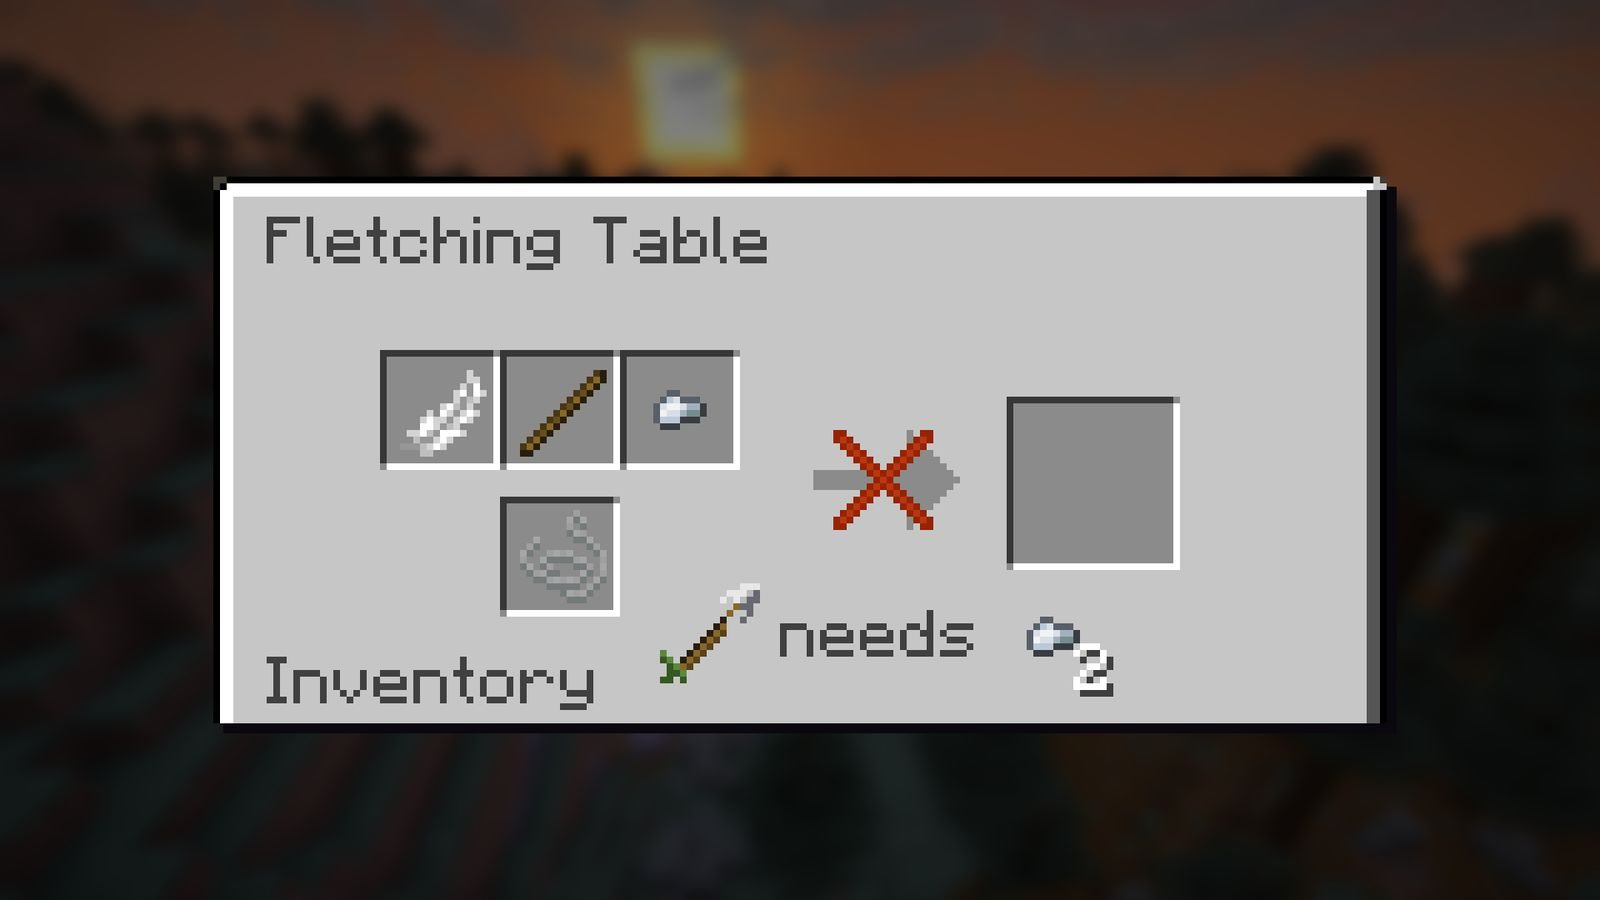
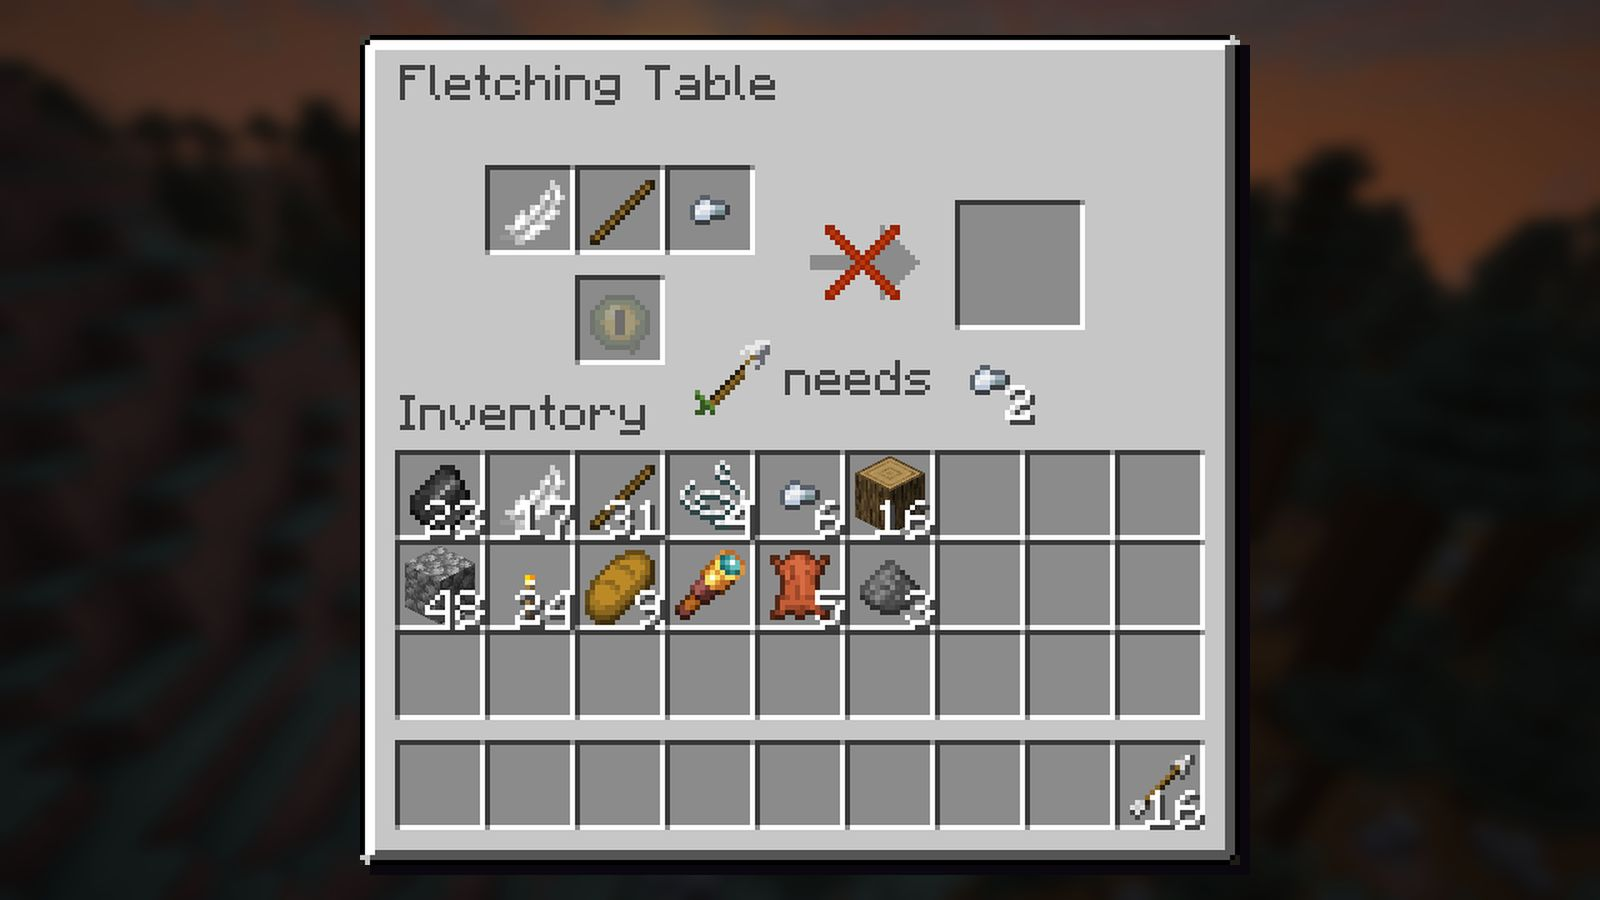
M7: website: retaken shots, full menus, corrected text

diff --git a/site/showcase.html b/site/showcase.html
@@ -23,7 +23,7 @@
 <nav class="nav" aria-label="Main"><a href="index.html">Home</a><a href="guide.html">How it plays</a><a href="arsenal.html">Arsenal</a><a href="bestiary.html">Bestiary</a><a href="showcase.html" aria-current="page">Showcase</a><a href="packs.html">Modpacks and config</a><a href="https://github.com/Panda-s-Workshop/full-draw" rel="noopener">GitHub</a></nav>
 </div></header>
 <main id="main">
-<div class="pagehead"><div class="wrap"><div class="eyebrow">Screenshots</div><h1>Showcase</h1><p>Taken in game, with no shaders or texture packs.</p></div></div><div class="wrap"><div class="filters" role="group" aria-label="Filter"><button class="chip" data-f="all" aria-pressed="true">All</button><button class="chip" data-f="World" aria-pressed="false">World</button><button class="chip" data-f="Creatures" aria-pressed="false">Creatures</button><button class="chip" data-f="Arrows" aria-pressed="false">Arrows</button><button class="chip" data-f="Shooting" aria-pressed="false">Shooting</button><button class="chip" data-f="Fletching" aria-pressed="false">Fletching</button></div><div class="gallery"><a class="shot" href="img/shots/hero.jpg" data-cat="World" data-cap="A Ranger&#x27;s Watchtower in the old pines at sunset"><img src="img/thumbs/hero.jpg" alt="A Ranger&#x27;s Watchtower in the old pines at sunset" loading="lazy" width="640" height="360"><span>A Ranger&#x27;s Watchtower in the old pines at sunset</span></a><a class="shot" href="img/shots/marksman.jpg" data-cat="Creatures" data-cap="The Marksman on its battlements"><img src="img/thumbs/marksman.jpg" alt="The Marksman on its battlements" loading="lazy" width="640" height="360"><span>The Marksman on its battlements</span></a><a class="shot" href="img/shots/tower.jpg" data-cat="World" data-cap="The watchtower over the taiga at dusk"><img src="img/thumbs/tower.jpg" alt="The watchtower over the taiga at dusk" loading="lazy" width="640" height="360"><span>The watchtower over the taiga at dusk</span></a><a class="shot" href="img/shots/rope.jpg" data-cat="Arrows" data-cap="A Rope Arrow&#x27;s rope down the watchtower&#x27;s wall"><img src="img/thumbs/rope.jpg" alt="A Rope Arrow&#x27;s rope down the watchtower&#x27;s wall" loading="lazy" width="640" height="360"><span>A Rope Arrow&#x27;s rope down the watchtower&#x27;s wall</span></a><a class="shot" href="img/shots/harrier.jpg" data-cat="Creatures" data-cap="A Gale Harrier circling high over the windswept heights"><img src="img/thumbs/harrier.jpg" alt="A Gale Harrier circling high over the windswept heights" loading="lazy" width="640" height="360"><span>A Gale Harrier circling high over the windswept heights</span></a><a class="shot" href="img/shots/lurker.jpg" data-cat="Creatures" data-cap="A Bog Lurker&#x27;s eyes in the swamp at nightfall"><img src="img/thumbs/lurker.jpg" alt="A Bog Lurker&#x27;s eyes in the swamp at nightfall" loading="lazy" width="640" height="360"><span>A Bog Lurker&#x27;s eyes in the swamp at nightfall</span></a><a class="shot" href="img/shots/bearer.jpg" data-cat="Creatures" data-cap="A Shieldbearer and two pillagers by their outpost"><img src="img/thumbs/bearer.jpg" alt="A Shieldbearer and two pillagers by their outpost" loading="lazy" width="640" height="360"><span>A Shieldbearer and two pillagers by their outpost</span></a><a class="shot" href="img/shots/flare.jpg" data-cat="Arrows" data-cap="A Flare Arrow&#x27;s light, and the zombies about it glowing"><img src="img/thumbs/flare.jpg" alt="A Flare Arrow&#x27;s light, and the zombies about it glowing" loading="lazy" width="640" height="360"><span>A Flare Arrow&#x27;s light, and the zombies about it glowing</span></a><a class="shot" href="img/shots/perfect.jpg" data-cat="Shooting" data-cap="At full draw on a pillager: the ring glows gold, let go now for a Perfect Release"><img src="img/thumbs/perfect.jpg" alt="At full draw on a pillager: the ring glows gold, let go now for a Perfect Release" loading="lazy" width="640" height="360"><span>At full draw on a pillager: the ring glows gold, let go now for a Perfect Release</span></a><a class="shot" href="img/shots/precision.jpg" data-cat="Shooting" data-cap="A Perfect headshot on the pillager"><img src="img/thumbs/precision.jpg" alt="A Perfect headshot on the pillager" loading="lazy" width="640" height="360"><span>A Perfect headshot on the pillager</span></a><a class="shot" href="img/shots/long_shot.jpg" data-cat="Shooting" data-cap="A long shot: the distance on the action bar"><img src="img/thumbs/long_shot.jpg" alt="A long shot: the distance on the action bar" loading="lazy" width="640" height="360"><span>A long shot: the distance on the action bar</span></a><a class="shot" href="img/shots/fletching.jpg" data-cat="Fletching" data-cap="The Fletching Table: glowstone, a stick, a feather and a Harrier Feather make Flare Arrows"><img src="img/thumbs/fletching.jpg" alt="The Fletching Table: glowstone, a stick, a feather and a Harrier Feather make Flare Arrows" loading="lazy" width="640" height="360"><span>The Fletching Table: glowstone, a stick, a feather and a Harrier Feather make Flare Arrows</span></a><a class="shot" href="img/shots/fletching_hint.jpg" data-cat="Fletching" data-cap="The table says what the nearest arrow still needs"><img src="img/thumbs/fletching_hint.jpg" alt="The table says what the nearest arrow still needs" loading="lazy" width="640" height="360"><span>The table says what the nearest arrow still needs</span></a><a class="shot" href="img/shots/trades.jpg" data-cat="Fletching" data-cap="A fletcher selling the new arrows beside the old trades"><img src="img/thumbs/trades.jpg" alt="A fletcher selling the new arrows beside the old trades" loading="lazy" width="640" height="360"><span>A fletcher selling the new arrows beside the old trades</span></a></div></div>
+<div class="pagehead"><div class="wrap"><div class="eyebrow">Screenshots</div><h1>Showcase</h1><p>Taken in game, with no shaders or texture packs. Menus are shown on a blurred view of the world.</p></div></div><div class="wrap"><div class="filters" role="group" aria-label="Filter"><button class="chip" data-f="all" aria-pressed="true">All</button><button class="chip" data-f="World" aria-pressed="false">World</button><button class="chip" data-f="Creatures" aria-pressed="false">Creatures</button><button class="chip" data-f="Arrows" aria-pressed="false">Arrows</button><button class="chip" data-f="Shooting" aria-pressed="false">Shooting</button><button class="chip" data-f="Fletching" aria-pressed="false">Fletching</button></div><div class="gallery"><a class="shot" href="img/shots/hero.jpg" data-cat="World" data-cap="A Ranger&#x27;s Watchtower in the old pines at sunset"><img src="img/thumbs/hero.jpg" alt="A Ranger&#x27;s Watchtower in the old pines at sunset" loading="lazy" width="640" height="360"><span>A Ranger&#x27;s Watchtower in the old pines at sunset</span></a><a class="shot" href="img/shots/marksman.jpg" data-cat="Creatures" data-cap="The Marksman on its battlements"><img src="img/thumbs/marksman.jpg" alt="The Marksman on its battlements" loading="lazy" width="640" height="360"><span>The Marksman on its battlements</span></a><a class="shot" href="img/shots/tower.jpg" data-cat="World" data-cap="The watchtower over the taiga at dusk"><img src="img/thumbs/tower.jpg" alt="The watchtower over the taiga at dusk" loading="lazy" width="640" height="360"><span>The watchtower over the taiga at dusk</span></a><a class="shot" href="img/shots/rope.jpg" data-cat="Arrows" data-cap="A Rope Arrow&#x27;s rope down the watchtower&#x27;s wall"><img src="img/thumbs/rope.jpg" alt="A Rope Arrow&#x27;s rope down the watchtower&#x27;s wall" loading="lazy" width="640" height="360"><span>A Rope Arrow&#x27;s rope down the watchtower&#x27;s wall</span></a><a class="shot" href="img/shots/harrier.jpg" data-cat="Creatures" data-cap="A Gale Harrier circling high over the windswept heights"><img src="img/thumbs/harrier.jpg" alt="A Gale Harrier circling high over the windswept heights" loading="lazy" width="640" height="360"><span>A Gale Harrier circling high over the windswept heights</span></a><a class="shot" href="img/shots/lurker.jpg" data-cat="Creatures" data-cap="A Bog Lurker&#x27;s eyes in the swamp at nightfall"><img src="img/thumbs/lurker.jpg" alt="A Bog Lurker&#x27;s eyes in the swamp at nightfall" loading="lazy" width="640" height="360"><span>A Bog Lurker&#x27;s eyes in the swamp at nightfall</span></a><a class="shot" href="img/shots/bearer.jpg" data-cat="Creatures" data-cap="A Shieldbearer behind its tower shield, a pillager at its side"><img src="img/thumbs/bearer.jpg" alt="A Shieldbearer behind its tower shield, a pillager at its side" loading="lazy" width="640" height="360"><span>A Shieldbearer behind its tower shield, a pillager at its side</span></a><a class="shot" href="img/shots/flare.jpg" data-cat="Arrows" data-cap="A Flare Arrow&#x27;s light, and the zombies about it glowing"><img src="img/thumbs/flare.jpg" alt="A Flare Arrow&#x27;s light, and the zombies about it glowing" loading="lazy" width="640" height="360"><span>A Flare Arrow&#x27;s light, and the zombies about it glowing</span></a><a class="shot" href="img/shots/perfect.jpg" data-cat="Shooting" data-cap="At full draw on a pillager: the ring glows gold, let go now for a Perfect Release"><img src="img/thumbs/perfect.jpg" alt="At full draw on a pillager: the ring glows gold, let go now for a Perfect Release" loading="lazy" width="640" height="360"><span>At full draw on a pillager: the ring glows gold, let go now for a Perfect Release</span></a><a class="shot" href="img/shots/precision.jpg" data-cat="Shooting" data-cap="A Perfect headshot on the pillager"><img src="img/thumbs/precision.jpg" alt="A Perfect headshot on the pillager" loading="lazy" width="640" height="360"><span>A Perfect headshot on the pillager</span></a><a class="shot" href="img/shots/long_shot.jpg" data-cat="Shooting" data-cap="A long shot: the distance on the action bar"><img src="img/thumbs/long_shot.jpg" alt="A long shot: the distance on the action bar" loading="lazy" width="640" height="360"><span>A long shot: the distance on the action bar</span></a><a class="shot" href="img/shots/fletching.jpg" data-cat="Fletching" data-cap="The Fletching Table: glowstone, a stick, a feather and a Harrier Feather make Flare Arrows"><img src="img/thumbs/fletching.jpg" alt="The Fletching Table: glowstone, a stick, a feather and a Harrier Feather make Flare Arrows" loading="lazy" width="640" height="360"><span>The Fletching Table: glowstone, a stick, a feather and a Harrier Feather make Flare Arrows</span></a><a class="shot" href="img/shots/fletching_hint.jpg" data-cat="Fletching" data-cap="The table says what the nearest arrow still needs"><img src="img/thumbs/fletching_hint.jpg" alt="The table says what the nearest arrow still needs" loading="lazy" width="640" height="360"><span>The table says what the nearest arrow still needs</span></a><a class="shot" href="img/shots/trades.jpg" data-cat="Fletching" data-cap="A fletcher selling the new arrows beside the old trades"><img src="img/thumbs/trades.jpg" alt="A fletcher selling the new arrows beside the old trades" loading="lazy" width="640" height="360"><span>A fletcher selling the new arrows beside the old trades</span></a></div></div>
 </main>
 <footer><div class="wrap cols">
 <div><b>Full Draw</b><br>A Minecraft 26.3 mod for NeoForge and Fabric.</div>

diff --git a/site/bestiary.html b/site/bestiary.html
@@ -23,7 +23,7 @@
 <nav class="nav" aria-label="Main"><a href="index.html">Home</a><a href="guide.html">How it plays</a><a href="arsenal.html">Arsenal</a><a href="bestiary.html" aria-current="page">Bestiary</a><a href="showcase.html">Showcase</a><a href="packs.html">Modpacks and config</a><a href="https://github.com/Panda-s-Workshop/full-draw" rel="noopener">GitHub</a></nav>
 </div></header>
 <main id="main">
-<div class="pagehead"><div class="wrap"><div class="eyebrow">Bestiary</div><h1>Creatures</h1><p>Three creatures that each ask for a different shot, and the Marksman.</p></div></div><div class="wrap"><article class="beast" id="shieldbearer"><div class="photo"><a class="shot" href="img/shots/bearer.jpg" data-cap="A Shieldbearer and two pillagers by their outpost"><img src="img/thumbs/bearer.jpg" alt="A Shieldbearer and two pillagers by their outpost" loading="lazy" width="640" height="360"></a></div><div>
+<div class="pagehead"><div class="wrap"><div class="eyebrow">Bestiary</div><h1>Creatures</h1><p>Three creatures that each ask for a different shot, and the Marksman.</p></div></div><div class="wrap"><article class="beast" id="shieldbearer"><div class="photo"><a class="shot" href="img/shots/bearer.jpg" data-cap="A Shieldbearer behind its tower shield, a pillager at its side"><img src="img/thumbs/bearer.jpg" alt="A Shieldbearer behind its tower shield, a pillager at its side" loading="lazy" width="640" height="360"></a></div><div>
 <h2>Shieldbearer</h2><p>A pillager's cousin behind a tall iron-banded tower shield, walking at you
 behind it. It joins raids from wave 3 and guards pillager outposts. Up close it bashes with the shield.</p><dl class="kv"><dt>Health</dt><dd>30</dd><dt>Armour</dt><dd>6</dd><dt>Shield bash</dt><dd>5</dd></dl>
 <h3>How to beat it</h3><ul><li>The shield stops every arrow within 60° of where it faces. Circle it: it turns slowly,
@@ -50,11 +50,11 @@ moves to another. A boss bar shows its health.</p><dl class="kv"><dt>Health</dt>
 <li>Below half health it draws faster (1.2 s instead of 1.5 s), lights up a hiding foe
 with a Flare Arrow and shells their cover with Blast Arrows. Don't hide in one place.</li>
 <li>Reach it on the battlements and it fights with the end of its bow.</li>
-<li>Knocked off its tower, it is soon back at its post.</li></ul><h3>Drops</h3><ul class="drops"><li><img src="img/tex/fulldraw/marksmans_eye.png" alt="" class="i" width="24" height="24" loading="lazy">Marksman&#x27;s Eye ×1</li><li><img src="img/tex/fulldraw/recurve_bow.png" alt="" class="i" width="24" height="24" loading="lazy">The Marksman&#x27;s Recurve ×1 with Deadeye II</li><li><img src="img/tex/minecraft/bone.png" alt="" class="i" width="24" height="24" loading="lazy">Bone ×1–3</li><li><img src="img/tex/minecraft/arrow.png" alt="" class="i" width="24" height="24" loading="lazy">Arrow ×2–6</li></ul></div></article><h2 id="watchtower">The Ranger's Watchtower</h2><div class="split"><a class="shot" href="img/shots/tower.jpg" data-cap="The watchtower over the taiga at dusk"><img src="img/thumbs/tower.jpg" alt="The watchtower over the taiga at dusk" loading="lazy" width="640" height="360"></a><div><p>A ruined stone-and-spruce tower, three floors and a battlemented top. It stands in every taiga, forest, flower forest, birch forest, old growth birch forest and dappled forest, but rarely.
-At most one stands in each 768 × 768-block region of the world, and only where that region's chosen spot is one of those biomes. Most regions have none, so the nearest is often a kilometre or more away. A chest on each floor holds arrows, Broadhead, Blunt and Rope Arrows, bread and
+<li>Knocked off its tower, it is soon back at its post.</li></ul><h3>Drops</h3><ul class="drops"><li><img src="img/tex/fulldraw/marksmans_eye.png" alt="" class="i" width="24" height="24" loading="lazy">Marksman&#x27;s Eye ×1</li><li><img src="img/tex/fulldraw/recurve_bow.png" alt="" class="i" width="24" height="24" loading="lazy">The Marksman&#x27;s Recurve ×1 with Deadeye II</li><li><img src="img/tex/minecraft/bone.png" alt="" class="i" width="24" height="24" loading="lazy">Bone ×1–3</li><li><img src="img/tex/minecraft/arrow.png" alt="" class="i" width="24" height="24" loading="lazy">Arrow ×2–6</li></ul></div></article><h2 id="watchtower">The Ranger's Watchtower</h2><div class="split"><a class="shot" href="img/shots/tower.jpg" data-cap="The watchtower over the taiga at dusk"><img src="img/thumbs/tower.jpg" alt="The watchtower over the taiga at dusk" loading="lazy" width="640" height="360"></a><div><p>A ruined stone-and-spruce tower, three floors and a battlemented top.
+Towers are rare: at most one stands in each 768 × 768-block region of the world, and only where that region's chosen spot is in one of these: any taiga, forest, flower forest, birch forest, old growth birch forest and dappled forest. Most regions have none, so the nearest is often a kilometre or more away. A chest on each floor holds arrows, Broadhead, Blunt and Rope Arrows, bread and
 the makings of more (flint, sticks, feathers, string, iron nuggets, leather), now and then a Quiver; one more waits on the
 battlements for whoever wins the duel, with Bodkin Arrows too. The Recurve Bow is
-the Marksman's own: it isn't chest loot.</p></div></div><p>Every spawn can be turned off in the server config; spawn eggs and commands still work.</p></div>
+the Marksman's own: it isn't chest loot.</p></div></div><p>The three creatures' spawns can each be turned off in the server config; spawn eggs and commands still work.</p></div>
 </main>
 <footer><div class="wrap cols">
 <div><b>Full Draw</b><br>A Minecraft 26.3 mod for NeoForge and Fabric.</div>

diff --git a/site/packs.html b/site/packs.html
@@ -33,7 +33,7 @@
 <code>config/fulldraw-client.properties</code>.</p>
 <div class="tw"><table><thead><tr><th>Key</th><th>Default</th><th>What it does</th></tr></thead><tbody><tr><td><code>showRing</code></td><td>true</td><td>The draw ring, the hit tick and early/late around the crosshair.</td></tr><tr><td><code>distanceReadout</code></td><td>true</td><td>&quot;Long shot: N m&quot; on the action bar.</td></tr><tr><td><code>fovEffects</code></td><td>true</td><td>Bow zoom on every bow, Steady Aim&#x27;s narrower view and the release kick.</td></tr><tr><td><code>perfectTrail</code></td><td>true</td><td>The particle trail behind Perfect arrows.</td></tr><tr><td><code>drawSounds</code></td><td>true</td><td>The draw creak, the strain of a held draw, the twang on release and your own breath.</td></tr><tr><td><code>perfectChime</code></td><td>true</td><td>The chime and the flash at the bow of your own Perfect Release.</td></tr><tr><td><code>hitSounds</code></td><td>true</td><td>The hit tick and the precision thock.</td></tr><tr><td><code>bowShake</code></td><td>true</td><td>The bow shaking in the hand when a draw is held too long.</td></tr><tr><td><code>quiverStrip</code></td><td>LEFT</td><td>Where the Quiver strip sits beside the hotbar: LEFT, RIGHT or HIDDEN.</td></tr></tbody></table></div></section>
 <section id="data"><h2>Tags and data</h2>
-<div class="tw"><table><thead><tr><th>Item tag</th><th>Holds</th></tr></thead><tbody><tr><td><code>#fulldraw:no_shot_pipeline</code></td><td>Weapons Full Draw leaves alone: they shoot as their mod made them.</td></tr><tr><td><code>#fulldraw:quiver_ammo</code></td><td>What a Quiver takes (by default <code>#minecraft:arrows</code>).</td></tr><tr><td><code>#fulldraw:shield_piercing</code></td><td>Weapons whose bolts crack a Shieldbearer's shield (the Arbalest).</td></tr><tr><td><code>#fulldraw:loads_alone</code></td><td>Arrows a magazine crossbow loads one at a time (the Blast Arrow).</td></tr><tr><td><code>#fulldraw:fletching/heads</code></td><td>What the Fletching Table's head slot takes; also <code>shafts</code>, <code>fletchings</code>, <code>extras</code>.</td></tr></tbody></table></div>
+<div class="tw"><table><thead><tr><th>Item tag</th><th>Holds</th></tr></thead><tbody><tr><td><code>#fulldraw:no_shot_pipeline</code></td><td>Weapons Full Draw leaves alone: they shoot as their mod made them.</td></tr><tr><td><code>#fulldraw:quiver_ammo</code></td><td>What a Quiver takes (by default <code>#minecraft:arrows</code>).</td></tr><tr><td><code>#fulldraw:shield_piercing</code></td><td>Weapons whose bolts crack a Shieldbearer's shield (the Arbalest).</td></tr><tr><td><code>#fulldraw:loads_alone</code></td><td>Ammunition a magazine crossbow loads one at a time (the Blast Arrow and firework rockets).</td></tr><tr><td><code>#fulldraw:fletching/heads</code></td><td>What the Fletching Table's head slot takes; also <code>shafts</code>, <code>fletchings</code>, <code>extras</code>.</td></tr></tbody></table></div>
 <p>Full Draw's bows join <code>#minecraft:enchantable/bow</code> and <code>#c:tools/bow</code>, its crossbows
 <code>#minecraft:enchantable/crossbow</code> and <code>#c:tools/crossbow</code>, and its arrows <code>#minecraft:arrows</code>.</p>
 <h3>Weak spots</h3>

diff --git a/site/404.html b/site/404.html
@@ -3,7 +3,7 @@
 <head>
 <meta charset="utf-8">
 <meta name="viewport" content="width=device-width, initial-scale=1">
-<title>Not found · Full Draw</title>
+<base href="/full-draw/"><title>Not found · Full Draw</title>
 <meta name="description" content="Page not found.">
 <meta property="og:type" content="website">
 <meta property="og:title" content="Not found · Full Draw">
